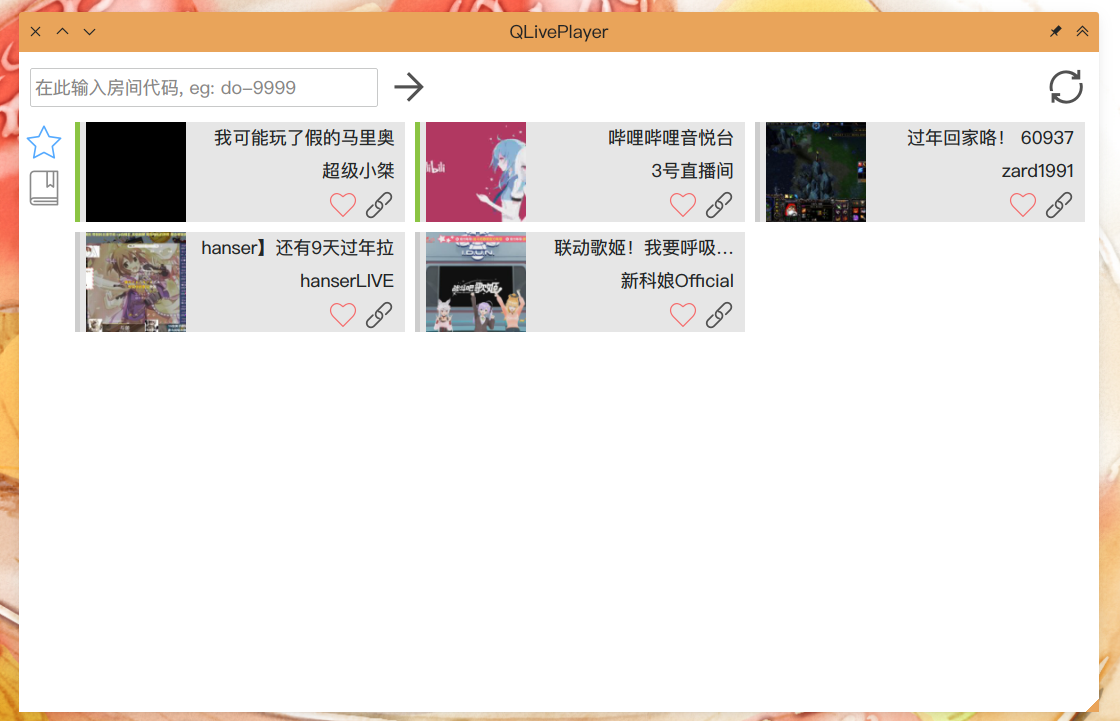
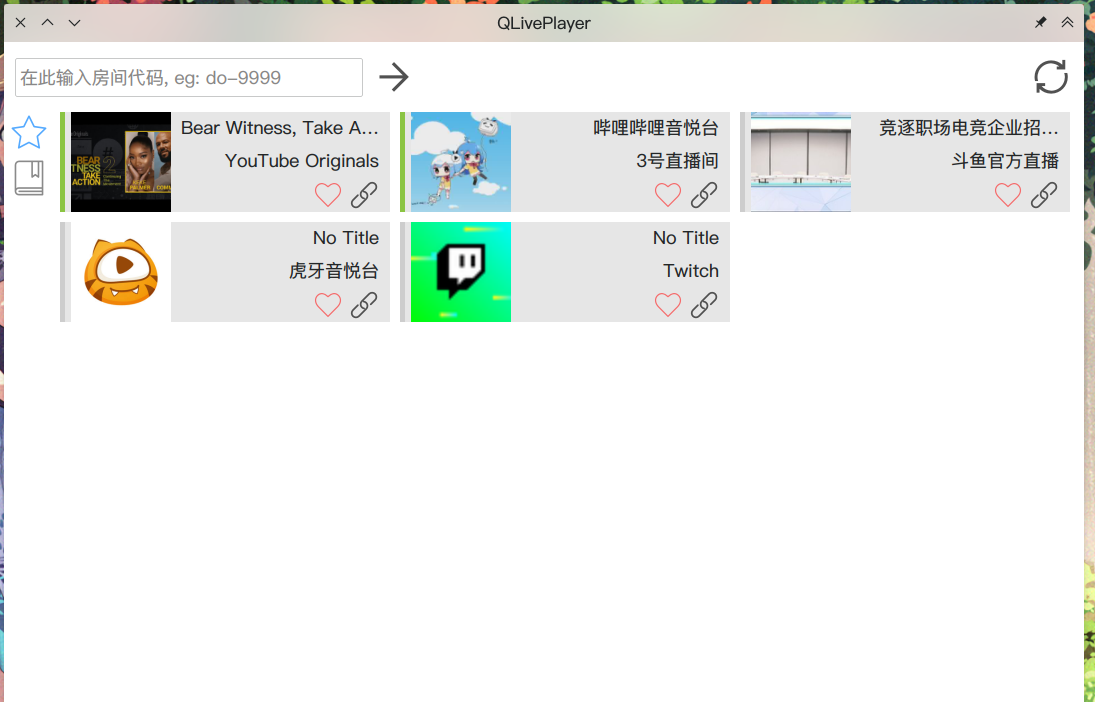
fix huya

Changed region(s): [[0.0, 0.0, 1.0, 1.0]]

diff --git a/src/qlphelper/bilivideo.cpp b/src/qlphelper/bilivideo.cpp
@@ -36,6 +36,8 @@ void MpvControl::start()
             mpv_socket->connectToServer(mpv_socket_path);
         } else {
             mpv_socket->write(QString("{ \"command\": [\"keybind\", \"alt+r\", \"script-message qlp:r\"] }\n"
+                                      "{ \"command\": [\"keybind\", \"alt+z\", \"script-message qlp:fsdown\"] }\n"
+                                      "{ \"command\": [\"keybind\", \"alt+x\", \"script-message qlp:fsup\"] }\n"
                                       "{ \"command\": [\"keybind\", \"alt+b\", \"script-message qlp:back\"] }\n"
                                       "{ \"command\": [\"keybind\", \"alt+n\", \"script-message qlp:next\"] }\n").toUtf8());
             t->stop();
@@ -73,6 +75,18 @@ void MpvControl::readMpvSocket()
             if (parser.getPageBack()) {
                 emit prevReceived();
             }
+            if (parser.getFs() != -1) {
+                emit onFont(parser.getFs(), -1);
+            }
+            if (parser.getFa() != -1) {
+                emit onFont(-1, parser.getFa());
+            }
+            if (parser.getFsUp()) {
+                emit onFontScaleDelta(0.15);
+            }
+            if (parser.getFsDown()) {
+                emit onFontScaleDelta(-0.15);
+            }
         } else if (tmp.contains("end-file")) {
             emit playFinished();
         } else if (tmp.contains("file-loaded")) {
@@ -102,6 +116,8 @@ BiliVideo::BiliVideo(QObject *parent)
     connect(mpv, &MpvControl::prevReceived, this, &BiliVideo::goPrevPage);
     connect(mpv, &MpvControl::nextReceived, this, &BiliVideo::goNextPage);
 //    connect(mpv, &MpvControl::playFinished, this, &BiliVideo::autoNextPage);
+    connect(mpv, &MpvControl::onFont, this, &BiliVideo::setFont);
+    connect(mpv, &MpvControl::onFontScaleDelta, this, &BiliVideo::setFontScaleDelta);
     connect(mpv, &MpvControl::fileLoaded, [=]() {
         connect(this->mpv, &MpvControl::playFinished, this, &BiliVideo::autoNextPage);
     });
@@ -140,6 +156,21 @@ void BiliVideo::run(QString url)
     connect(reply_info, &QNetworkReply::finished, this, &BiliVideo::slotHttpVideoInfo);
 }
 
+void BiliVideo::setFont(double fs, double fa)
+{
+    if (fs > 0) {
+        font_size = 40 * fs;
+    }
+    if (fa >= 0 && fa <= 1) {
+//        font_alpha = QStringLiteral("%1").arg((uint)(255*fa), 2, 16, QLatin1Char('0'));
+    }
+}
+
+void BiliVideo::setFontScaleDelta(double delta)
+{
+    font_size = font_size + (40 * delta);
+}
+
 void BiliVideo::genAss()
 {
     if (!ass_file->open(QIODevice::WriteOnly | QIODevice::Text))
@@ -153,11 +184,13 @@ void BiliVideo::genAss()
            "WrapStyle: 0\n"
            "ScaledBorderAndShadow: yes\n"
            "YCbCr Matrix: None\n"
-           + QString("PlayResX: %1\n").arg(QString::number(res_x)) +
+           + QStringLiteral("PlayResX: %1\n").arg(QString::number(res_x)) +
            "PlayResY: 1080\n"
            "[V4+ Styles]\n"
            "Format: Name, Fontname, Fontsize, PrimaryColour, SecondaryColour, OutlineColour, BackColour, Bold, Italic, Underline, StrikeOut, ScaleX, ScaleY, Spacing, Angle, BorderStyle, Outline, Shadow, Alignment, MarginL, MarginR, MarginV, Encoding\n"
-           "Style: Default,Sans,40,&H00FFFFFF,&H000000FF,&H00000000,&H00000000,0,0,0,0,100,100,0,0,1,1,0,7,0,0,0,1\n"
+           "Style: Default,Sans,"
+           + QString::number(font_size) +
+           ",&H00FFFFFF,&H000000FF,&H00000000,&H00000000,0,0,0,0,100,100,0,0,1,1,0,7,0,0,0,1\n"
            "[Events]\n"
            "Format: Layer, Start, End, Style, Name, MarginL, MarginR, MarginV, Effect, Text\n";
     for (int i = 0; i < 30; i++) {
@@ -175,7 +208,7 @@ void BiliVideo::genAss()
         } else if (iter.value().first[0] == '5') {
             avail_channel = 1; // top
         } else {
-            display_length = getDankamuDisplayLength(iter.value().first.mid(1), 40);
+            display_length = getDankamuDisplayLength(iter.value().first.mid(1), font_size);
             avail_channel = getAvailDMChannel(iter.key(), display_length);
         }
         if (avail_channel >= 0) {
@@ -194,7 +227,7 @@ void BiliVideo::genAss()
                             .arg(t1).arg(t2).arg(c.midRef(4, 2) + c.midRef(2, 2) + c.midRef(0, 2)) << "\n";
             } else {
                 out << QString("Dialogue: 0,%4,%5,Default,,0,0,0,,{\\1c&%6&\\move(%7,%1,%2,%1)}%3")
-                            .arg(QString::number(avail_channel*(40))).arg(QString::number(0-display_length)).arg(iter.value().first.midRef(1))
+                            .arg(QString::number(avail_channel*(font_size))).arg(QString::number(0-display_length)).arg(iter.value().first.midRef(1))
                             .arg(t1).arg(t2).arg(c.midRef(4, 2) + c.midRef(2, 2) + c.midRef(0, 2)).arg(QString::number(res_x)) << "\n";
             }
         }

diff --git a/src/qlphelper/streamfinder/streamfinder/huya.py b/src/qlphelper/streamfinder/streamfinder/huya.py
@@ -1,7 +1,7 @@
 #! /bin/python3
 import aiohttp, asyncio, json, sys, re, random, base64
-from html.parser import HTMLParser
 from util.match import match1
+import html
 
 class Huya:
     api_url1 = 'https://www.douyu.com/swf_api/homeH5Enc'
@@ -28,8 +28,8 @@ class Huya:
 
         async with aiohttp.ClientSession() as sess:
             async with sess.request('get', self.room_url, headers=self.headers) as resp:
-                html = await resp.text()
-                json_stream = match1(html, '"stream": "([a-zA-Z0-9+=/]+)"')
+                h = await resp.text()
+                json_stream = match1(h, '"stream": "([a-zA-Z0-9+=/]+)"')
                 assert json_stream, "live video is offline"
                 data = json.loads(base64.b64decode(json_stream).decode())
                 assert data['status'] == 200, data['msg']
@@ -45,7 +45,7 @@ class Huya:
                     sUrl = stream_info['s{}Url'.format(sType)]
                     sUrlSuffix = stream_info['s{}UrlSuffix'.format(sType)]
                     sAntiCode = stream_info['s{}AntiCode'.format(sType)]
-                    ret['play_url'] = HTMLParser().unescape(u'{}/{}.{}?{}'.format(sUrl, sStreamName, sUrlSuffix, sAntiCode))
+                    ret['play_url'] = html.unescape(u'{}/{}.{}?{}'.format(sUrl, sStreamName, sUrlSuffix, sAntiCode))
                     break
 
         # print(ret)

diff --git a/src/qlphelper/bilivideo.h b/src/qlphelper/bilivideo.h
@@ -37,6 +37,8 @@ signals:
     void prevReceived();
     void nextReceived();
     void fileLoaded();
+    void onFont(double fs, double fa);
+    void onFontScaleDelta(double delta);
 
 private:
     QString ass_path;
@@ -68,14 +70,18 @@ public:
     void autoNextPage();
     void goPrevPage();
     void goNextPage();
+    void setFont(double fs, double fa);
+    void setFontScaleDelta(double delta);
 
 signals:
     void dlFinished();
+
 
 private:
     double speed = 8.0; // duration of single danmaku in second
     int res_x = 1920;
     int res_y = 1080;
+    int font_size = 40;
     bool hevc = false;
     MpvControl *mpv = nullptr;
     QStringList real_url;
